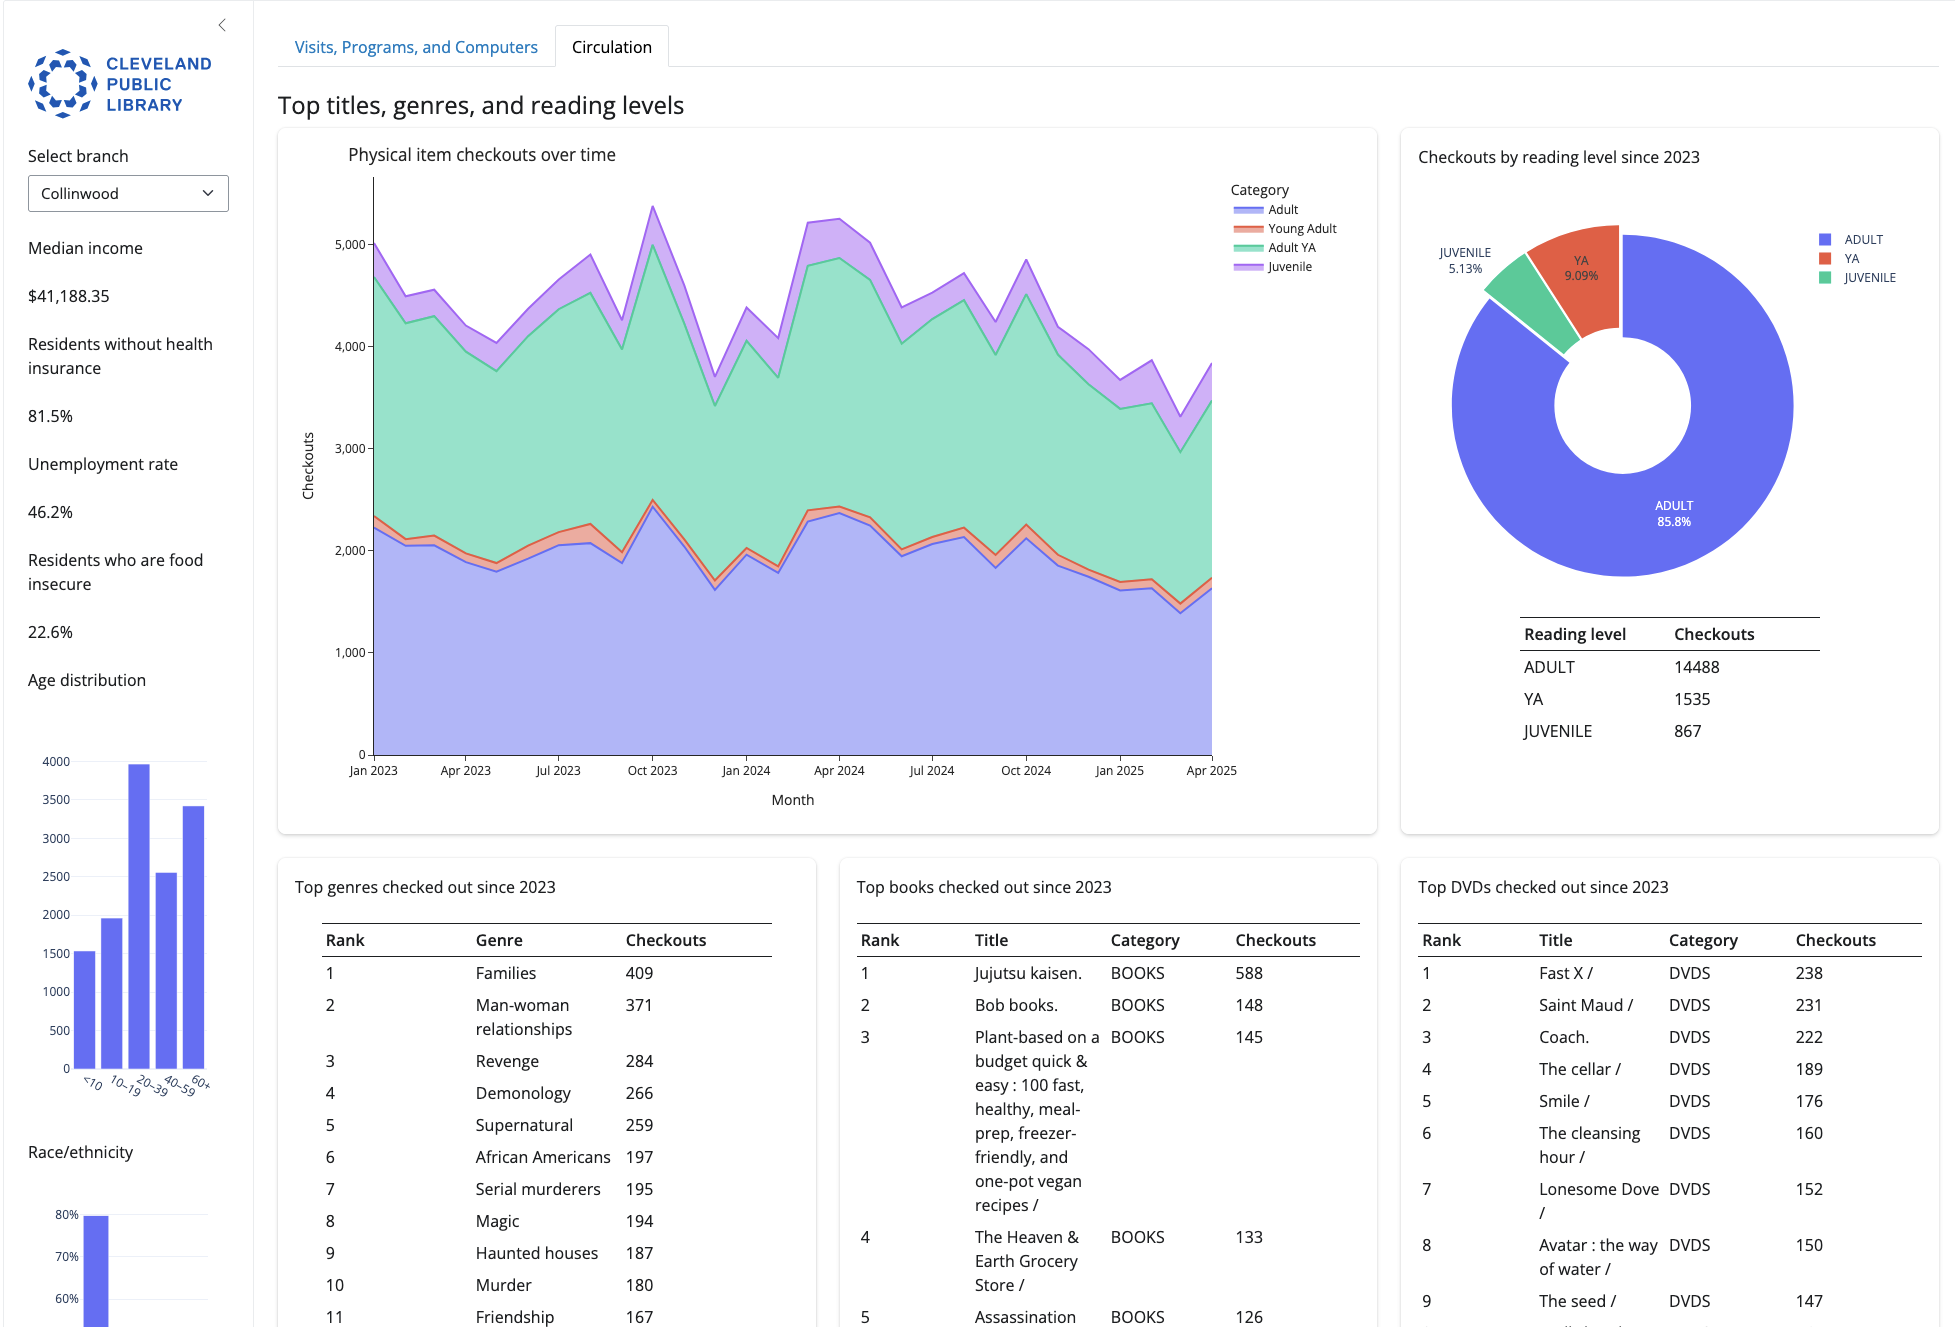
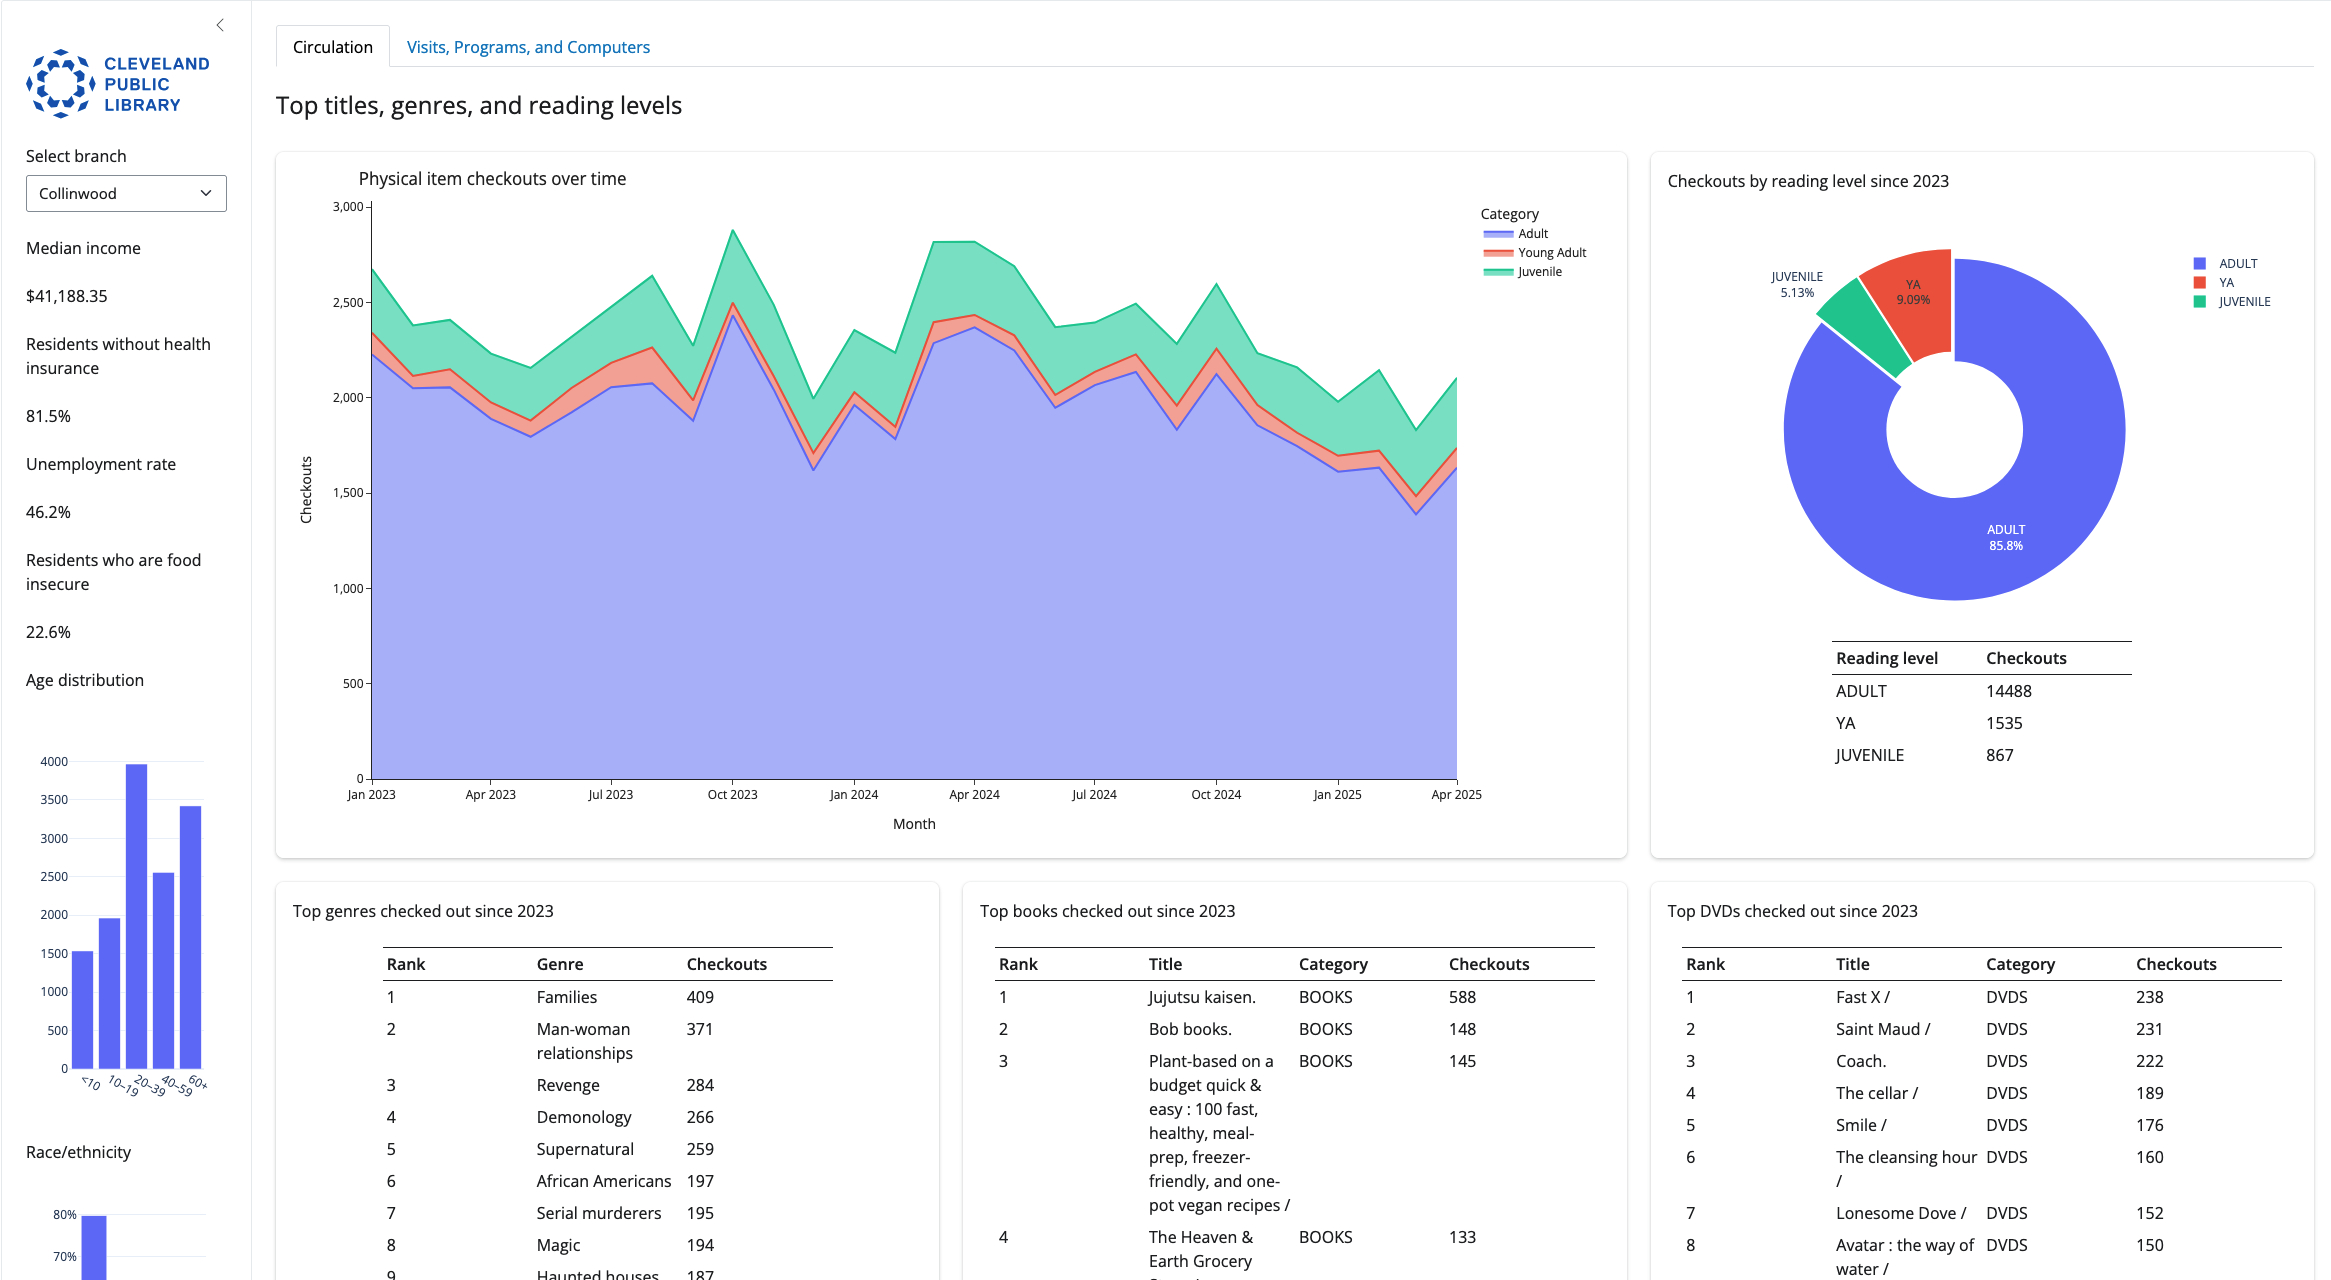
update

diff --git a/app.py b/app.py
@@ -19,12 +19,14 @@ branch_physical_reading = pd.read_csv("cplbranches/data/branch_physical_reading_
 branch_service_census_food_data['medianincome'] = pd.to_numeric(branch_service_census_food_data['medianincome'], errors='coerce')
 
 ICONS = {
-    "income": fa.icon_svg("money-bill")
+    "income": fa.icon_svg("money-bill"),
+    "user": fa.icon_svg("user"),
+    "computer": fa.icon_svg("computer"),
+    "clock": fa.icon_svg("clock"),
 }
 
 category_map = {
     "physical_item_adult": "Adult",
-    "physical_item_adult_ya": "Adult YA",
     "physical_item_ya": "Young Adult",
     "physical_item_juvenile": "Juvenile"
 }
@@ -66,44 +68,11 @@ app_ui = ui.page_fluid(
         ),  
 
         ui.navset_tab(  
-        ui.nav_panel("Visits, Programs, and Computers", 
-                     ui.h4("Visits and programs held"),
-
-                    ui.layout_columns(
-                        ui.card(
-                            output_widget("visits_plot"),
-                            full_screen=True
-                        ),
-                        ui.card(
-                            output_widget("programs_plot"),
-                            full_screen=True
-                        ),
-                        col_widths=[6,6]
-                        ),
-                    
-                    ui.h4("Computer usage"),
-
-                    ui.layout_columns(
-                        ui.value_box(
-                           "Total stations",
-                           ui.output_ui("stations") 
-                        ),
-                        ui.value_box(
-                           "Total sessions",
-                           ui.output_ui("sessions") 
-                        ),
-                        ui.value_box(
-                           "Average session length",
-                           ui.output_ui("average_session_length") 
-                        ),
-                        col_widths=[4,4,4]
-                        )
-
-                     ),
+        
         ui.nav_panel("Circulation", 
                      
                      ui.h4("Top titles, genres, and reading levels"),
-                     
+                     ui.tags.br(),
                         ui.layout_columns(
                             ui.card(
                                 output_widget("readinglevels_plot"),
@@ -137,6 +106,52 @@ app_ui = ui.page_fluid(
                         )
                      
                      ),
+
+        ui.nav_panel("Visits, Programs, and Computers", 
+            ui.h4("Visits and programs held"),
+            ui.tags.br(),
+
+                    ui.layout_columns(
+                        ui.card(
+                            output_widget("visits_plot"),
+                            full_screen=True
+                        ),
+                        col_widths=[12]
+                        ),
+                    
+                    ui.layout_columns(
+                        ui.card(
+                            output_widget("programs_plot"),
+                            full_screen=True
+                        ),
+                        ui.card(
+                        output_widget("scatter_plot"),
+                        full_screen=True
+                        ),
+                        col_widths=[6,6]
+                        # ui.output_ui("map")
+                    ),
+                     ui.h4("Computer usage"),
+                     ui.layout_columns(
+                        ui.value_box(
+                           "Total stations",
+                           ui.output_ui("stations"),
+                           showcase=ICONS["computer"]
+                        ),
+                        ui.value_box(
+                           "Total sessions",
+                           ui.output_ui("sessions"),
+                           showcase=ICONS["user"] 
+                        ),
+                        ui.value_box(
+                           "Average session length",
+                           ui.output_ui("average_session_length"),
+                           showcase=ICONS["clock"]
+                        ),
+                        col_widths=[4,4,4]
+                        )
+
+                     ),
         id="tab",  
         ),       
     ),
@@ -148,11 +163,34 @@ def server(input, output, session):
     @render.image
     def image():
         from pathlib import Path
-
         dir = Path(__file__).resolve().parent
         img = {"src": str(dir / "cplbranches/cpl-logo.svg"), "height":'70px', "style":"height='10px' !important"}
         return img
     
+    @render.image
+    def map_image():
+        from pathlib import Path
+        base_dir = Path(__file__).resolve().parent
+        map_dir = base_dir / "cplbranches/maps"
+
+        # Sanitize and format filename (ensure branch input matches file naming)
+        branch_name = input.branch().replace(" ", "_")  # adapt if more cleaning is needed
+        filename = f"map_{branch_name}.png"
+        full_path = map_dir / filename
+
+        if not full_path.exists():
+            return {"src": "", "alt": f"Map not found: {filename}"}
+
+        return {
+            "src": str(full_path),
+            "width": "100%",  # or a fixed width like "800px"
+            "style": "border: 1px solid #ccc;"
+        }
+
+    @render.ui
+    def map():
+        return ui.output_image("map_image", height="70px")
+
     @render.ui
     def cpllogo():
         return ui.output_image("image", height="70px")
@@ -310,12 +348,41 @@ def server(input, output, session):
         fig.update_layout(
                 xaxis_tickangle=-45,
                 showlegend=False,
-                hovermode="x unified",
                 template='simple_white',
                 yaxis_title='Average attendance',
                 xaxis_title='',
                 margin=dict(t=60, b=120)
             )
+        return fig
+
+    @render_plotly
+    def scatter_plot():
+        # Filter data
+        df_filtered = public_calendar[
+            (public_calendar["branch_name"] == input.branch()) &
+            (public_calendar["actual_attendance"] < 100)
+        ]
+
+        # Create jittered scatterplot
+        fig = px.scatter(
+            df_filtered,
+            x="time_parsed",
+            y="actual_attendance",
+            hover_data={
+            "actual_attendance": True,
+            "title": True,
+            "time_parsed": False  # hide if already shown as x-axis
+        }
+        )
+
+        fig.update_traces(marker=dict(size=6, line=dict(width=0)))
+        fig.update_layout(
+            title="Start time vs. in-person attendance",
+            xaxis_title="Start time",
+            yaxis_title="Attendance",
+            template="simple_white"
+        )
+
         return fig
 
     @render.ui
@@ -354,7 +421,7 @@ def server(input, output, session):
         else:
             return "No data found"
 
- # Reading levels plot
+    # Reading levels plot
     @reactive.Calc
     def filtered_branch_physical_reading():
         return branch_physical_reading[branch_physical_reading["branch_name"] == input.branch()]
@@ -391,13 +458,14 @@ def server(input, output, session):
         )
         fig.update_layout(
             yaxis=dict(tickformat=","),
-            hovermode="x unified",
             template='simple_white',
             legend_title="Category"
         )
         return fig
     
+    #####
     # Top genres table 
+    #####
     @reactive.Calc
     def filtered_branch_titles():
         return branch_titles_filtered[branch_titles_filtered["branch_name"] == input.branch()]
@@ -424,7 +492,10 @@ def server(input, output, session):
     def top_genres_table():
         return render.DataTable(genre_tbl(), height="600px")
 
+    #####
     # top_reading_level_table
+    #####
+
     @reactive.Calc
     def summarized_readinglevel_data():
         df = filtered_branch_titles()
